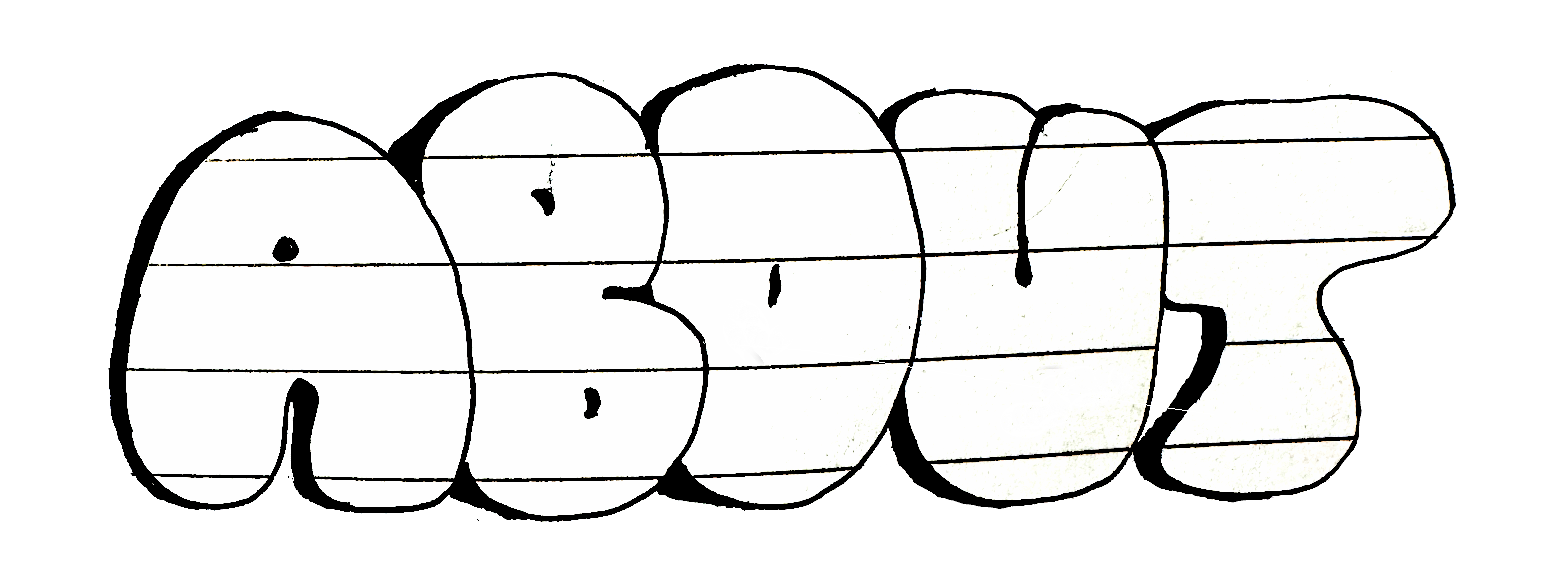
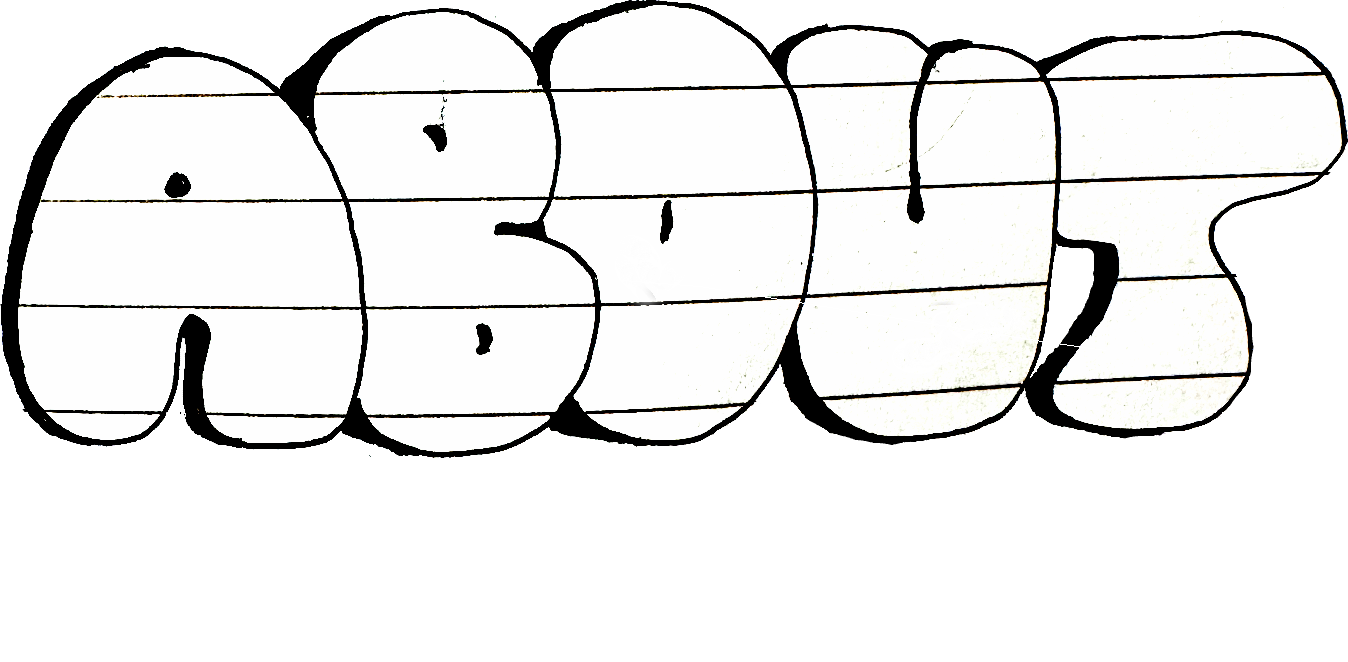
Hand-drawn underline marks the selected tab
SHOP, ABOUT, ALL and the cart box now get the drawn underline bar
beneath them when selected, instead of the dashed loop. Drawings
re-cut without the loop padding (same canvas for off/on, underline
outline thickened so it holds up at tab size). Cart count anchored to
the box itself; small gaps added between tabs.

diff --git a/src/styles/global.css b/src/styles/global.css
@@ -87,11 +87,11 @@ body {
 .tabs {
   display: flex;
   align-items: center;
-  /* No gap: the shop/about drawings already carry padding (room for the red loop). */
+  gap: 8px;
 }
 
 .cart-tab {
-  margin-left: 2px;
+  margin-left: 8px;
 }
 
 .tab {
@@ -109,8 +109,14 @@ body {
   grid-area: 1 / 1;
 }
 
+.cart-tab {
+  /* Height of the cart drawing; the box is its top 81% (the rest is room for the underline). */
+  --cart-h: 38px;
+}
+
 .cart-count {
-  place-self: center;
+  place-self: start center;
+  margin-top: calc(var(--cart-h) * 0.405 - var(--digit-h) / 2);
   font-size: 15px;
   line-height: 1;
   color: var(--ink);
@@ -322,6 +328,14 @@ a:active img.drawn,
 
   .cart-count {
     --digit-h: 32px;
+  }
+
+  .cart-tab {
+    --cart-h: 64px;
+  }
+
+  .tabs {
+    gap: 20px;
   }
 
   /* The bee line spans the header width at a sensible height. */
